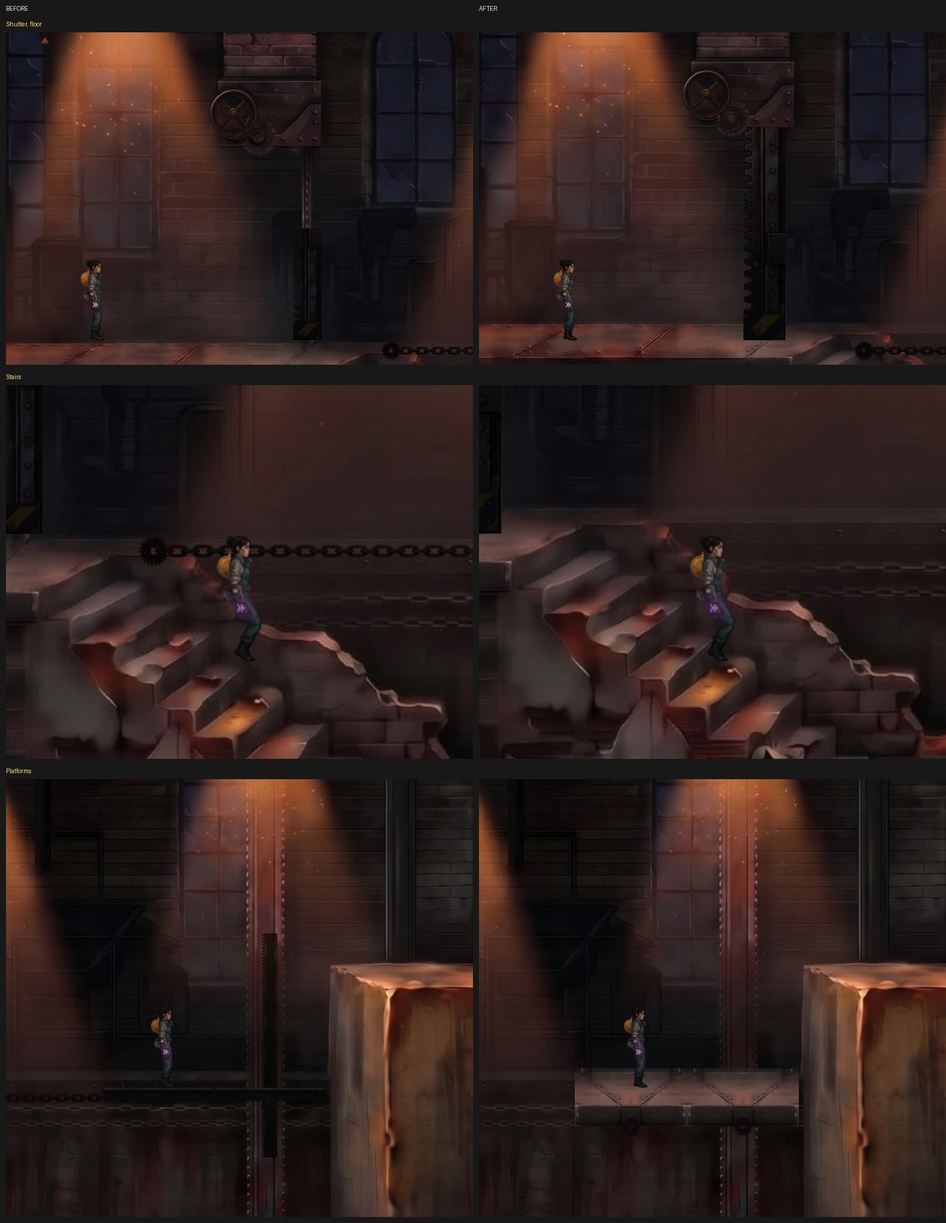
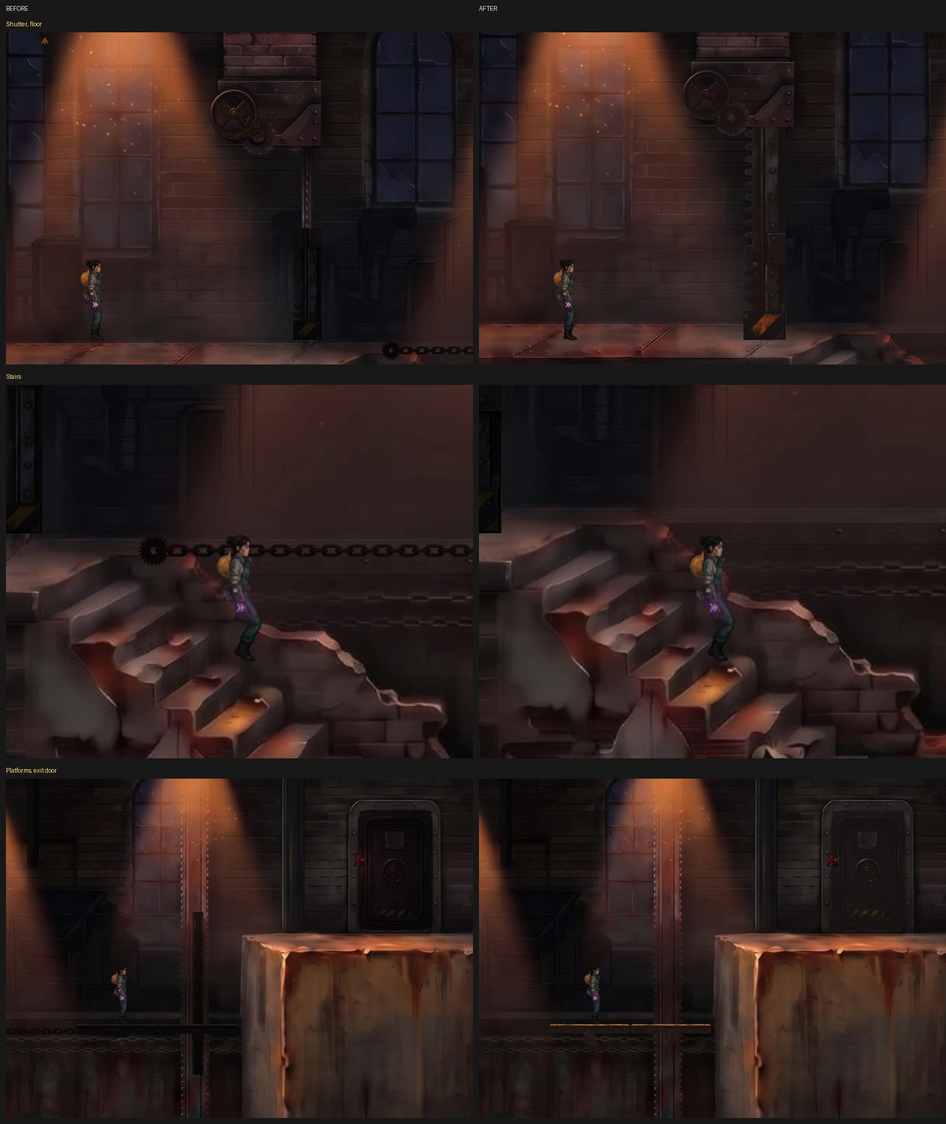
Level 01: code-drawn objects take the picture's light; platform plank back
Shutter, platforms and the exit door in a painted room use object_light:
unshaded, so the room's darkness no longer dims them twice; dim in the dark,
warm under the picture's lamp cones, blacks lifted by haze, a little soft
(kit_objects.picture_light). The platform cut from the painted floor is
undone (the team draws a new one, request N-14). Decisions renumbered
D151-D153: D150 is taken by an open pull request.

Claude-Session: https://claude.ai/code/session_01GYYRw7knYvFSo278MYAZnX

diff --git a/tools/check_backdrop.py b/tools/check_backdrop.py
@@ -14,7 +14,7 @@
 
 The picture is 16:9 and covers the room's width; the room (32x17 cells of 64
 px) fills its top 1088 of 1152 px. In the game the picture may lie higher
-(`rect` y of world.backdrop; level 01: 22 px, D150) so that the middle of a
+(`rect` y of world.backdrop; level 01: 22 px, D151) so that the middle of a
 painted top face, not its back edge, is on the cyan line. Reads the tile map and the nodes of
 game/levels/<level>.tscn and the lamps of the level in game/data/levels.json.
 """

diff --git a/docs/history.md b/docs/history.md
@@ -236,9 +236,9 @@
 | 24.11.2026 | Уровень 05 быстрее (D146, к D144, D145): первый толчок — когда камера подъехала к героине (`quake_seconds` 3,9), плиты и лампы падают очередью через 0,6 с; третья плита через 2 с после падения рассыпается в яму (`crumble_seconds`): её ловят под Shift, пока она снова цела на пеньке. Кран трогается через 0,5 с и едет 220 px/с. Куски потолка разной величины и формы, промежутки разные; вместо лампы под каждым куском — две лампы между кусками, светят, пока падают (`lamps` с `act` 3, `lit`). Замедление слабее: темп 0,06 вместо 0,03, 7 с мира; на подъём около 4 с быстрых прыжков, Shift выручает | Артём, 24.11: «чтобы всё рушилось и игрок шустрее думал»; окно «плита 3 цела» короче правила 3 с — он согласился ради стиля; куски «слишком одинаковые», замедление «не настолько сильное, чтобы был челлендж» |
 | 24.11.2026 | Конец уровня 05 — замедляется и героиня (D148, к D145): в замедлении её часы идут медленнее — `Collapse` ставит `Engine.time_scale` по `collapse.slow.heroine_tempo` (0,5 на самом медленном). Это уменьшает шаг её физики, анимации и частиц, а тики мира остаются прежними, поэтому записи, повтор и решения не меняются. Мир — темп 0,03 на тик (в реальном времени соотношение героиня/мир то же, что было при 0,06), замедление 11 с. С третьим толчком за падающим потолком взрыв (`collapse.blast`): вспышка света на зал, мягкий огненный шар, разлёт искр; в замедлении он долго догорает, под Shift уходит назад. На выходе из уровня время снова обычное | Артём, 24.11: в конце героиня не замедляется, непонятно, что идёт экшен; нужен взрыв на фоне. Вариант Б целиком (всё на 0,06) делал бы подъём невозможным; героиня на 0,5 выглядит замедленной, а сложность прежняя |
 | 24.11.2026 | **D149.** Концовка уровня 05 (акт 3) переделывается: куски потолка разной величины падают с разной скоростью и не по порядку (одни с разгоном, другие сползают); мелкие кувыркаются, на них не встать, они пролетают поперёк пути и мешают прыжку — Shift убирает такой кусок с дороги. Кусок у двери срывается сразу и быстро уходит в яму; вперёд лесенка кончается ниже уступа двери, поэтому на последнем куске надо зажать Shift: быстрый кусок вылетает из ямы быстрее остальных, героиня запрыгивает на него и поднимается к уступу. Замедление D148 остаётся | Артём, 24.11: куски «более разнообразно падали», и «чтобы был смысл нажимать Shift» — сейчас пять одинаковых кусков ползут лесенкой, и Shift нужен, только если опоздала. Из трёх вариантов (кусок-лифт, обгон по скоростям, без замедления) выбрал первый с добавкой: разные размеры и скорости, кувыркающиеся куски мешают |
-| 24.11.2026 | **D150.** Картинка фона уровня 01 лежит на 22 px выше своих клеток (`rect` y −0,34 в `world.backdrop`): опора пола и ступеней проходила по дальнему краю нарисованного верха, героиня ходила по краю пола и висела над ступенями на 30–40 px. Теперь середина нарисованного верха там, где ноги; опора, решение и тесты прежние. Лампы, часы, провод и проём выхода сдвинуты вместе с картинкой | Замечания Бориса 24.11; так же устроен набор (`top_face_px`: ноги на середине верха); сдвинуть картинку, а не опору — решение уровня не меняется |
-| 24.11.2026 | **D151.** Заслонка уровня 01 под нарисованным коробом: стойка 48 px (было 32) с центром на x 526 (было 544), висит до низа короба (`clip_y`) при любом ходе — длинная полоса `painted_blade_region`; рейка сцеплена с нарисованной шестернёй (`gear` в `painted.Door`), шестерня катится по рейке, штурвал — по шестерне (угол от хода, а не `wheel_turns`) | Замечания Бориса 24.11: дыра над закрытой заслонкой, шестерня не цепляет зубья; сверено с `ref_shutter.jpg` — стойка висит прямо из короба, шестерня на её зубьях. Решение уровня прошло без перезаписи |
-| 24.11.2026 | **D152.** Платформы в нарисованной комнате — кусок нарисованного пола: конец плиты (`patch`, x 494–558) справа и он же отражённый слева, на слое картинки с её светом ламп (`WorldBackdrop` даёт узлу холст, `use_picture`); рейка и цепь кода не рисуются — на картинке есть колонна во всю высоту и балка с цепью. Под платформой крутится шестерня | Замечания Бориса 24.11: платформы кода темнее фона — их дважды затемняла темнота комнаты (`CanvasModulate`), а картинку нет; ответ Бориса про рейку «посмотрим, как будет» |
+| 24.11.2026 | **D151.** Картинка фона уровня 01 лежит на 22 px выше своих клеток (`rect` y −0,34 в `world.backdrop`): опора пола и ступеней проходила по дальнему краю нарисованного верха, героиня ходила по краю пола и висела над ступенями на 30–40 px. Теперь середина нарисованного верха там, где ноги; опора, решение и тесты прежние. Лампы, часы, провод и проём выхода сдвинуты вместе с картинкой | Замечания Бориса 24.11; так же устроен набор (`top_face_px`: ноги на середине верха); сдвинуть картинку, а не опору — решение уровня не меняется |
+| 24.11.2026 | **D152.** Заслонка уровня 01 под нарисованным коробом: стойка 48 px (было 32) с центром на x 526 (было 544), висит до низа короба (`clip_y`) при любом ходе — длинная полоса `painted_blade_region`; рейка сцеплена с нарисованной шестернёй (`gear` в `painted.Door`), шестерня катится по рейке, штурвал — по шестерне (угол от хода, а не `wheel_turns`) | Замечания Бориса 24.11: дыра над закрытой заслонкой, шестерня не цепляет зубья; сверено с `ref_shutter.jpg` — стойка висит прямо из короба, шестерня на её зубьях. Решение уровня прошло без перезаписи |
+| 24.11.2026 | **D153.** В нарисованной комнате всё, что рисует код (заслонка, платформы, дверь выхода), берёт свет картинки: шейдер `object_light.gdshader` без освещения Godot (темнота комнаты и острова ламп его не трогают), цвет × `dark` вне конусов ламп, × `lit_color`·`lit_gain` в конусе, тёмное поднято дымкой `haze`, мягкость `soft_px` (`kit_objects.picture_light` в `look.json`); конусы и яркость ламп — те же, что у картинки (общий `picture_light.gdshaderinc`). Рейку и цепь кода под платформами не рисуем: на картинке есть колонна во всю высоту и балка с цепью. Платформа пока старая доска Н-7, новая — запрос Н-14 у Gemini. Первая попытка этой же сессии — платформа из куска нарисованного пола — отменена: Борис «выглядит ужасно, давай самодеятельностью не заниматься», вид платформ решает команда | Замечания Бориса 24.11: предметы кода темнее фона, «на них не падает освещение», «осветлить раза в 2, а лучше свет добавить»; Борис выбрал свет картинки (вариант 1 из трёх: свет картинки, просто осветлить, светлее темнота уровня) и мягкость; рейку не возвращать |
 
 ## Журнал
 
@@ -332,4 +332,4 @@
 | 24.11.2026 | Колено куклы (ветка `ccr-2bee971b-gdvxbv`) | Опустить колено героини (после D143), подобрать позы, снять бег и лестницу до и после | Колено на складке голени, голень обрезана над коленом (поле `top`), стопы в покое на лестнице целиком на ступени, `--on-stairs` в `tools/shots.gd`; D147; лист `docs/art/heroine/knee.jpg`. Позы оставлены: Борис принял «после» как есть. 315 тестов и UI-тест зелёные | запишет следующий чат |
 | 24.11.2026 | Уровень 05 «Три толчка» (ветка `claude/practical-planck-j5q5nt`) | Плейтест Артёма с эскизами: плиты с лампами, лифт под Shift, кран, рушащийся потолок, замедление | `CollapsePlan` и `Collapse` переписаны на три акта, кран — часть обвала (рельс, тележка, груз), `Crane`, `CranePlan`, `brake` удалены; раскладка 66×22; тесты 05 переписаны, решения `level_05`, `late_shift`, `no_shift`, `hold_shift`, `stay_on_crane`; D144, D145. По второму отзыву Артёма в том же чате: быстрее, третья плита рассыпается, куски разные, две лампы между ними, замедление слабее (D146). Третий отзыв: героиня замедляется вместе с миром, взрыв за потолком (D148); просадка FPS под Shift в конце — в следующий чат | запишет следующий чат |
 | 24.11.2026 | Просадка FPS в конце уровня 05 (ветка `claude/zealous-albattani-52iuro`) | Под Shift на последнем этапе 05 падает FPS; переделать концовку: куски падают разнообразнее, Shift со смыслом | Замер на виртуальном экране: под Shift +300 вызовов отрисовки от нитей и пылинок наруча, осколки ламп каждый кадр заново считали дугу. Пылинки — прямоугольники одной текстуры, нити — два массива треугольников, осколки — один массив, дуга хранится; свет и пыль тёмной лампы выключены. Кадр в конце 05 под Shift 25,5 → 13,7 мс (только процессор), вызовов 728 → 270. Концовку согласовали с Артёмом (D149), делает следующий чат. 316 тестов и UI-тест зелёные | запишет следующий чат |
-| 24.11.2026 | Уровень 01 по замечаниям Бориса (ветка `claude/shift-time-level-1-issues-49yhsx`) | Дыра над заслонкой, шестерня мимо рейки, героиня висит над лестницей и идёт по краю пола, лампа бьётся в воздухе, платформы и рейка темнее фона | Картинка выше на 22 px (D150), заслонка под коробом и с шестернёй (D151), платформы из куска пола со светом картинки (D152), лампа на ступень; список замечаний в `levels/01.md`; 317 тестов и UI-тест зелёные | запишет следующий чат |
+| 24.11.2026 | Уровень 01 по замечаниям Бориса (ветка `claude/shift-time-level-1-issues-49yhsx`) | Дыра над заслонкой, шестерня мимо рейки, героиня висит над лестницей и идёт по краю пола, лампа бьётся в воздухе, платформы и рейка темнее фона | Картинка выше на 22 px (D151), заслонка под коробом и с шестернёй (D152), предметы кода со светом картинки, рейка и цепь кода убраны (D153), лампа на ступень; платформа из куска пола сделана и отменена по слову Бориса, новая — запрос Н-14; список замечаний в `levels/01.md`; 317 тестов и UI-тест зелёные | запишет следующий чат |

diff --git a/docs/progress.md b/docs/progress.md
@@ -10,13 +10,13 @@
   | Задача | Кто | Чем | С |
   |---|---|---|---|
 
-- **24.11, уровень 01 по замечаниям Бориса (D150–D152, ветка `claude/shift-time-level-1-issues-49yhsx`):** список замечаний — в [levels/01.md](levels/01.md), раздел «Замечания 24.11». Героиня ходила по дальнему краю пола и висела над ступенями: картинка фона лежала на 22 px ниже опоры, теперь она выше (D150), середина нарисованного пола и ступеней там, где ноги. Заслонка висит прямо из короба, без дыры над собой; рейка сцеплена с нарисованной шестернёй, шестерня и штурвал крутятся на ход заслонки (D151). Лампа 3 и кусок штукатурки падают на ступень. Платформы — кусок нарисованного пола со светом ламп картинки, рейку и цепь кода убрал: на картинке колонна и балка с цепью уже есть (D152). Решение уровня прошло без перезаписи. Кадры до и после — [art/level01_fixes.jpg](art/level01_fixes.jpg). **Борису:** F5, уровень 01 — пол, лестница, заслонка, платформы; нужна ли платформам жёлтая кромка (D65).
+- **24.11, уровень 01 по замечаниям Бориса (D151–D153, ветка `claude/shift-time-level-1-issues-49yhsx`):** список замечаний — в [levels/01.md](levels/01.md), раздел «Замечания 24.11». Героиня ходила по дальнему краю пола и висела над ступенями: картинка фона лежала на 22 px ниже опоры, теперь она выше (D151), середина нарисованного пола и ступеней там, где ноги. Заслонка висит прямо из короба, без дыры над собой; рейка сцеплена с нарисованной шестернёй, шестерня и штурвал крутятся на ход заслонки (D152). Лампа 3 и кусок штукатурки падают на ступень. Заслонка, платформы и дверь выхода берут свет картинки: под лампой тёплые, в темноте приглушены, чёрное поднято дымкой, края чуть мягче — заслонка вдвое светлее прежнего (D153, числа — `kit_objects.picture_light` в `game/data/look.json`). Рейку и цепь кода под платформами убрал: на картинке колонна и балка с цепью уже есть. Решение уровня прошло без перезаписи. Кадры до и после — [art/level01_fixes.jpg](art/level01_fixes.jpg). **Борису:** F5, уровень 01 — пол, лестница, заслонка, яркость предметов; новая платформа у Gemini — запрос Н-14 в [art/gemini-kit.md](art/gemini-kit.md), картинку в `docs/art/gemini/raw/n14_platform.jpg`.
 - **24.11, просадка FPS в конце уровня 05 (ветка `claude/zealous-albattani-52iuro`):** под Shift кадр дорожал из-за двух вещей. Нити и пылинки времени у наруча рисовались по вызову на каждый кружок и полоску (~390 вызовов отрисовки), а осколки разбитых ламп каждый кадр заново «пролетали» свою дугу в цикле — в уровне 05 падают 11 ламп. Теперь пылинки — прямоугольники одной текстуры (`KitTextures.dot`), нити — два массива треугольников, осколки лампы — один, их дуга считается один раз и хранится; у тёмной лампы выключены свет и пыль. Замер в конце уровня 05 (маленькое окно, только процессор): без Shift 14,3 → 10,5 мс на кадр, под Shift 25,5 → 13,7 мс; вызовов отрисовки под Shift 728 → 270. Вид прежний. **Артёму:** проверить в браузере и в редакторе, держится ли FPS под Shift в конце 05. Концовку 05 по ответу Артёма (D149) переделывает следующий чат — задача в «Дальше».
 - **24.11, колено куклы (D147, ветка `ccr-2bee971b-gdvxbv`):** сустав колена стоит на нарисованной складке голени, бедро рисуется поверх голени, тазобедренный сустав ниже в тазу — длина ноги и рост прежние, бедро к голени около 1 к 1,4. Верх картинки голени над коленом обрезан (поле `top` у части в `heroine.json`), иначе при сгибе он торчал над коленом. Позы прежние, кроме `fall` (колени чуть согнуты); на лестнице присед до 7,5 px, стоя ботинок встаёт целиком на одну ступень. Кадры до и после: [art/heroine/knee.jpg](art/heroine/knee.jpg). Борис посмотрел лист: «выглядит естественно». **Борису или Артёму:** пройти лестницу уровня 01 и попрыгать. Для съёмки лестницы — `tools/shots.sh --level level_01 --on-stairs 28@55 --plan ...` (ключ в `tools/shots.gd`).
 - **24.11, походка по лестнице (D143, ветка `claude/stoic-ritchie-37akcx`):** на лестнице стопы ставит код: опорная стоит на середине ступени, другая идёт к следующей низкой дугой, шаг в одну ступень (`stride_px` в `stairs` в `heroine.json`); позы бега на лестнице больше не играются, пятка не закидывается. Ступени героиня берёт из `Stairs.tread_middles` и `tread_y`: **чату, который перерисовывает ступени**, — менять их там, походка подстроится. Колено опущено — D147, строка ниже. Кадры: [art/heroine/stairs_walk.jpg](art/heroine/stairs_walk.jpg) (две строки спуск, две подъём). **Борису:** пройти лестницу уровня 01 вниз и вверх.
 - **Дальше** (кто что берёт — D46):
   - **24.11, D133:** в джеме пять уровней, теперь по порядку **01–05**: 01 «Следствие», 02 «Поток», 03 «Вмешательство» (был 04), 04 «Плиты» (был 08), 05 «Кран и обвал» (был 09). Ниже и в старых записях могут встречаться прежние номера. Новых уровней не строим; Артём доводит эти пять.
-  - **Борис, 24.11:** сыграть уровень 01 после правок D150–D152 (заслонка, лестница, пол, платформы) и дописать новые замечания в [levels/01.md](levels/01.md), раздел «Замечания 24.11»; потом — перенос вида 01 на другие уровни.
+  - **Борис, 24.11:** сыграть уровень 01 после правок D151–D153 (заслонка, лестница, пол, свет предметов) и дописать новые замечания в [levels/01.md](levels/01.md), раздел «Замечания 24.11»; нарисовать платформу у Gemini (запрос Н-14) и апскейл фона (Г). Потом — чат О: вставить `n14_platform`, подобрать `soft_px`; затем перенос вида 01 на другие уровни.
   - **24.11, фон уровня 01 готов (D141, D142):** сыграть уровень 01 (Борис или Артём): читается ли комната, видно ли, куда идти в темноте, как выглядит падение лампы 3 и её осколки, не мыльная ли картинка на камере ×1,5 (если мыльная — апскейл картинки, Г). Потом ролик Д7 вперёд и под Shift.
   - **Борис или Артём, 24.11:** сыграть уровень 01 после перестройки (D140): поездка на платформе 1 теперь около 4,3 с (144 px/с, Борис: 192 — слишком быстро); видно ли со входа, что заслонка закрывается.
   - **Артём, 23.11:** сыграть уровень 04 «Плиты» (был 08, D118): понятно ли без подсказки, что шаг под Shift открывает B, нужны ли ещё плиты.

diff --git a/docs/levels/01.md b/docs/levels/01.md
@@ -93,12 +93,13 @@
 
 Список проблем уровня 01 перед тем, как переносить его вид на остальные уровни. Закрытое отмечено; кадры до и после — [art/level01_fixes.jpg](../art/level01_fixes.jpg).
 
-- [x] Заслонка короче стены: над закрытой заслонкой видна дыра до короба. Теперь стойка висит до самого короба при любом ходе (D151).
-- [x] Шестерня над заслонкой не цепляет зубья рейки (шестерня в центре, зубья левее). Стойка шире (48 px) и стоит под нарисованной шестернёй, рейка с ней сцеплена, шестерня и штурвал крутятся ровно на ход стойки (D151).
-- [x] Лестница: героиня ходит по воздуху над ступенями. Картинка фона лежала на 22 px ниже опоры; теперь середина нарисованного пола и ступеней там, где стоят ноги (D150).
-- [x] Героиня идёт не по середине пола, а по дальнему краю — та же причина (D150).
+- [x] Заслонка короче стены: над закрытой заслонкой видна дыра до короба. Теперь стойка висит до самого короба при любом ходе (D152).
+- [x] Шестерня над заслонкой не цепляет зубья рейки (шестерня в центре, зубья левее). Стойка шире (48 px) и стоит под нарисованной шестернёй, рейка с ней сцеплена, шестерня и штурвал крутятся ровно на ход стойки (D152).
+- [x] Лестница: героиня ходит по воздуху над ступенями. Картинка фона лежала на 22 px ниже опоры; теперь середина нарисованного пола и ступеней там, где стоят ноги (D151).
+- [x] Героиня идёт не по середине пола, а по дальнему краю — та же причина (D151).
 - [x] Лампа 3 бьётся в воздухе над лестницей. Теперь лампа и кусок штукатурки падают на ступень под ними (тест сверяет с `Stairs.tread_y`).
-- [x] Платформы, нарисованные кодом, намного темнее фона и выделяются. Теперь платформа — кусок нарисованного пола со светом картинки (D152).
-- [x] Рейка вертикальной платформы короткая и чёрная, рядом с нарисованной колонной. На картинке колонна-направляющая уже есть во всю высоту: рейка и цепь кода в нарисованной комнате убраны (D152).
-- [ ] Посмотреть в игре: нравится ли новый вид платформ (кусок пола, «ёлочка» швов от отражения), нужна ли им жёлтая кромка (D65).
+- [x] Всё, что рисует код (заслонка, платформы, дверь выхода), намного темнее фона и выглядит наклеенным: на него не падает свет комнаты. Теперь эти предметы берут свет картинки: под конусом лампы тёплые и светлые, в темноте приглушены, чёрное поднято дымкой, края чуть мягче; заслонка вдвое светлее прежнего (D153). Числа — `kit_objects.picture_light` в `game/data/look.json`.
+- [x] Рейка вертикальной платформы короткая и чёрная, рядом с нарисованной колонной. На картинке колонна-направляющая уже есть во всю высоту: рейка и цепь кода в нарисованной комнате убраны (D153).
+- [ ] Вид платформ: старая доска Н-7 чужая на фоне картинки. Нужна новая у Gemini — запрос Н-14 в [art/gemini-kit.md](../art/gemini-kit.md) (Борис), вставка — следующий чат.
+- [ ] Комната мягкая (картинка растянута камерой ×1,5), предметы кода резче: апскейл картинки фона у Gemini (Г), потом подобрать `soft_px`.
 

diff --git a/docs/art/gemini-kit.md b/docs/art/gemini-kit.md
@@ -258,6 +258,14 @@ Request N-12: things the player uses. Separate pieces on one sheet with wide emp
 Request N-13: the staircase into the pit. A broken brick staircase going down from left to right, seen exactly from the side like a technical drawing, flat even light, on flat green #00FF00. About 20 steps run in a straight line from the top left corner of the picture to the bottom right corner, the slope about 3 high to 5 across. Steps of worn sooty red brick with a riveted iron angle on the edge of each step; a few steps chipped, a few loose bricks lying on them. Under the steps, the side of the staircase: brick down to the bottom edge of the picture, darker than the steps. Above the steps: flat green only. Only the staircase, nothing else.
 ```
 
+### Н-14. Платформа под фон комнаты (24.11.2026)
+
+Платформы уровня 01 сейчас — старая доска Н-7 (тёмная сталь), на фоне картинки Ф-1 она чужая (замечания Бориса 24.11, `docs/levels/01.md`). Нужна новая в стиле картинки комнаты. В игре платформа — 2 клетки на полклетки (128 × 32 px, 4:1), героиня стоит на середине её верха; колонну и цепь, по которым она ездит, картинка комнаты уже рисует (D153). Свет и мягкость добавит игра (D153), поэтому просим ровный свет. Приложить первой картинкой фон комнаты `docs/art/gemini/raw/f1_room_v1.jpg` (стиль, цвет, ржавчина), второй — кадр с платформой `docs/art/level01_fixes.jpg` (нижний правый, где она стоит сейчас). Готовую картинку — в `raw/` как `n14_platform.jpg`, вырезать: `python3 tools/cut_kit.py n14_platform`; вставит следующий чат (О).
+
+```text
+Request N-14: a moving platform for the attached factory hall, in exactly the same painted style, colours and rust as the FIRST image. One piece in the middle of the picture on flat green #00FF00, wide empty green around it, flat even light, no shadows on the green. A short steel platform, about 4 times as wide as it is tall, seen from the side with a slight look from above, like the floors in the first image: its flat top surface visible as a strip across the upper third, riveted rusty red-brown steel plates; under it the front face, a riveted steel beam; a worn signal-yellow edge along the front of the top surface; under the middle of the beam a small carriage with two rollers. Both ends finished, not cut. Nothing else in the picture.
+```
+
 ## 5. Проверка и правки
 
 Принимать картинку, если: вид строго сбоку без перспективы; свет ровный, без теней и свечения; фон — ровный зелёный без теней и шахматки; одна деталь (или лист деталей, которые не касаются друг друга); кисть и цвета как у эталонного кадра; нет пурпура, циана и надписей.

diff --git a/.claude/skills/golos/glossary.md b/.claude/skills/golos/glossary.md
@@ -33,4 +33,4 @@
 | RFK (под Shift) | «рывки» — покадровая картинка под Shift (D44) |
 | спрайкук, спрайт кук | SpriteCook — плагин-генератор спрайтов, не берём (D59) |
 | ночной секс | «Ночной цех» (вид уровней, D61) |
-| рей, рея (на заднем фоне) | нарисованная на картинке фона колонна или рейка (направляющая платформы), D152 |
+| рей, рея (на заднем фоне) | нарисованная на картинке фона колонна или рейка (направляющая платформы), D153 |
